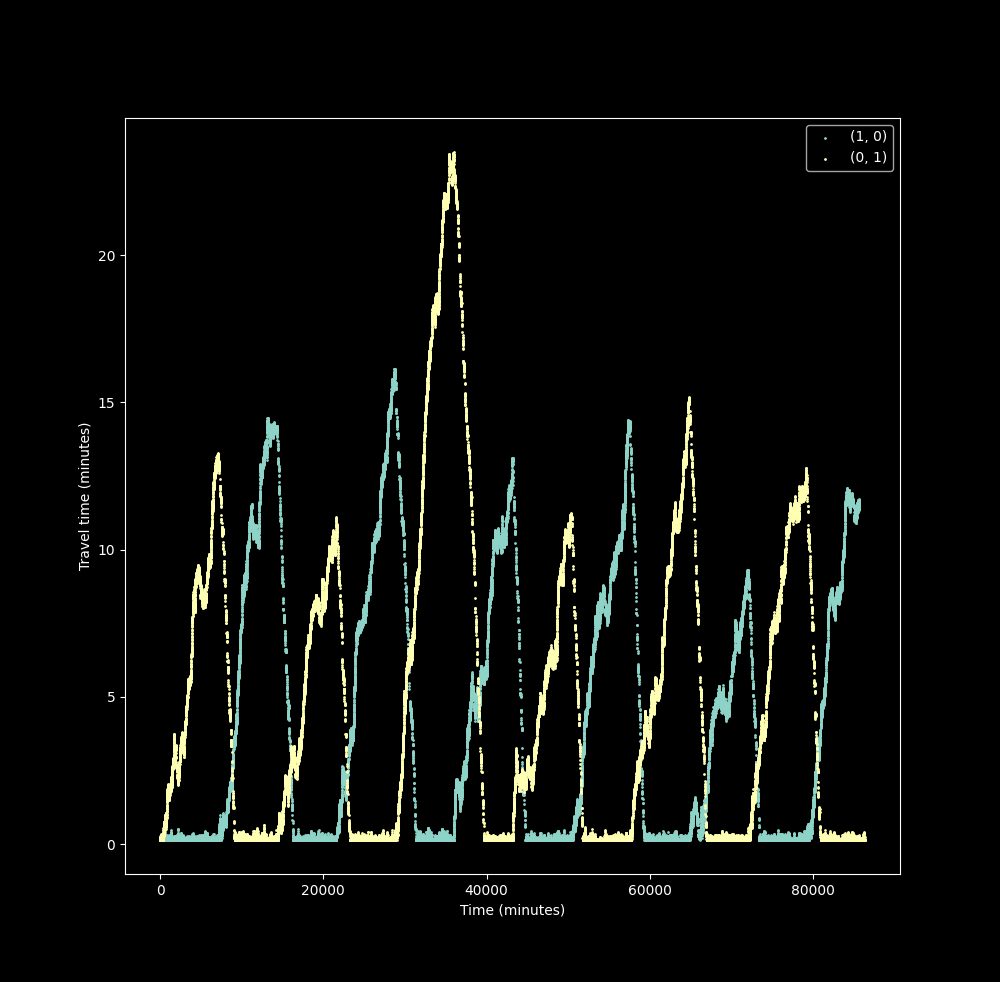
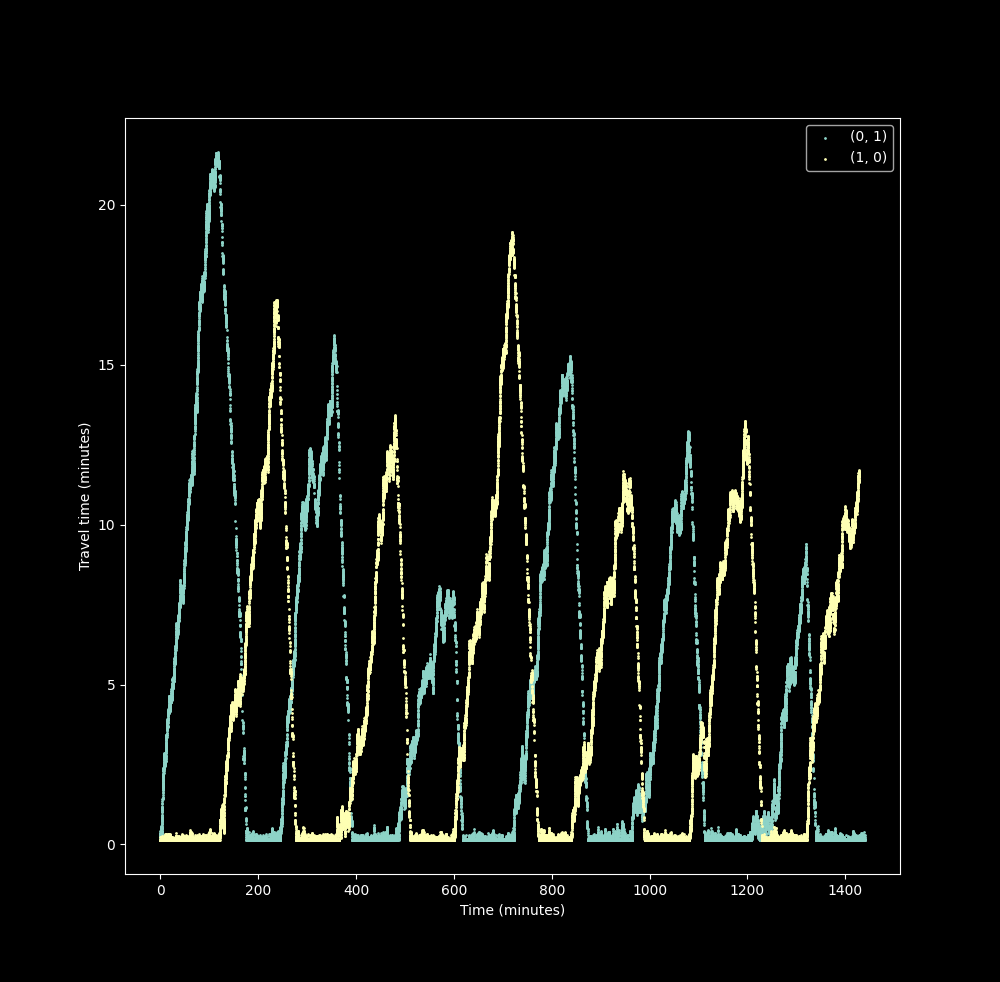
fixed labels and image

diff --git a/trafficsim.py b/trafficsim.py
@@ -231,7 +231,8 @@ class TrafficSimulator:
             ab_scatter = []
             for start, end in times:
                 if end:
-                    ab_scatter.append([start, (end-start)*DT_IN_SECONDS/60])
+                    ab_scatter.append([start*DT_IN_SECONDS/60, 
+                                       (end-start)*DT_IN_SECONDS/60])
             ab_scatter = np.array(ab_scatter)
             plt.scatter(ab_scatter[:,0], ab_scatter[:,1], s=1, label=f"{ab}")
         plt.xlabel("Time (minutes)"); plt.ylabel("Travel time (minutes)")
